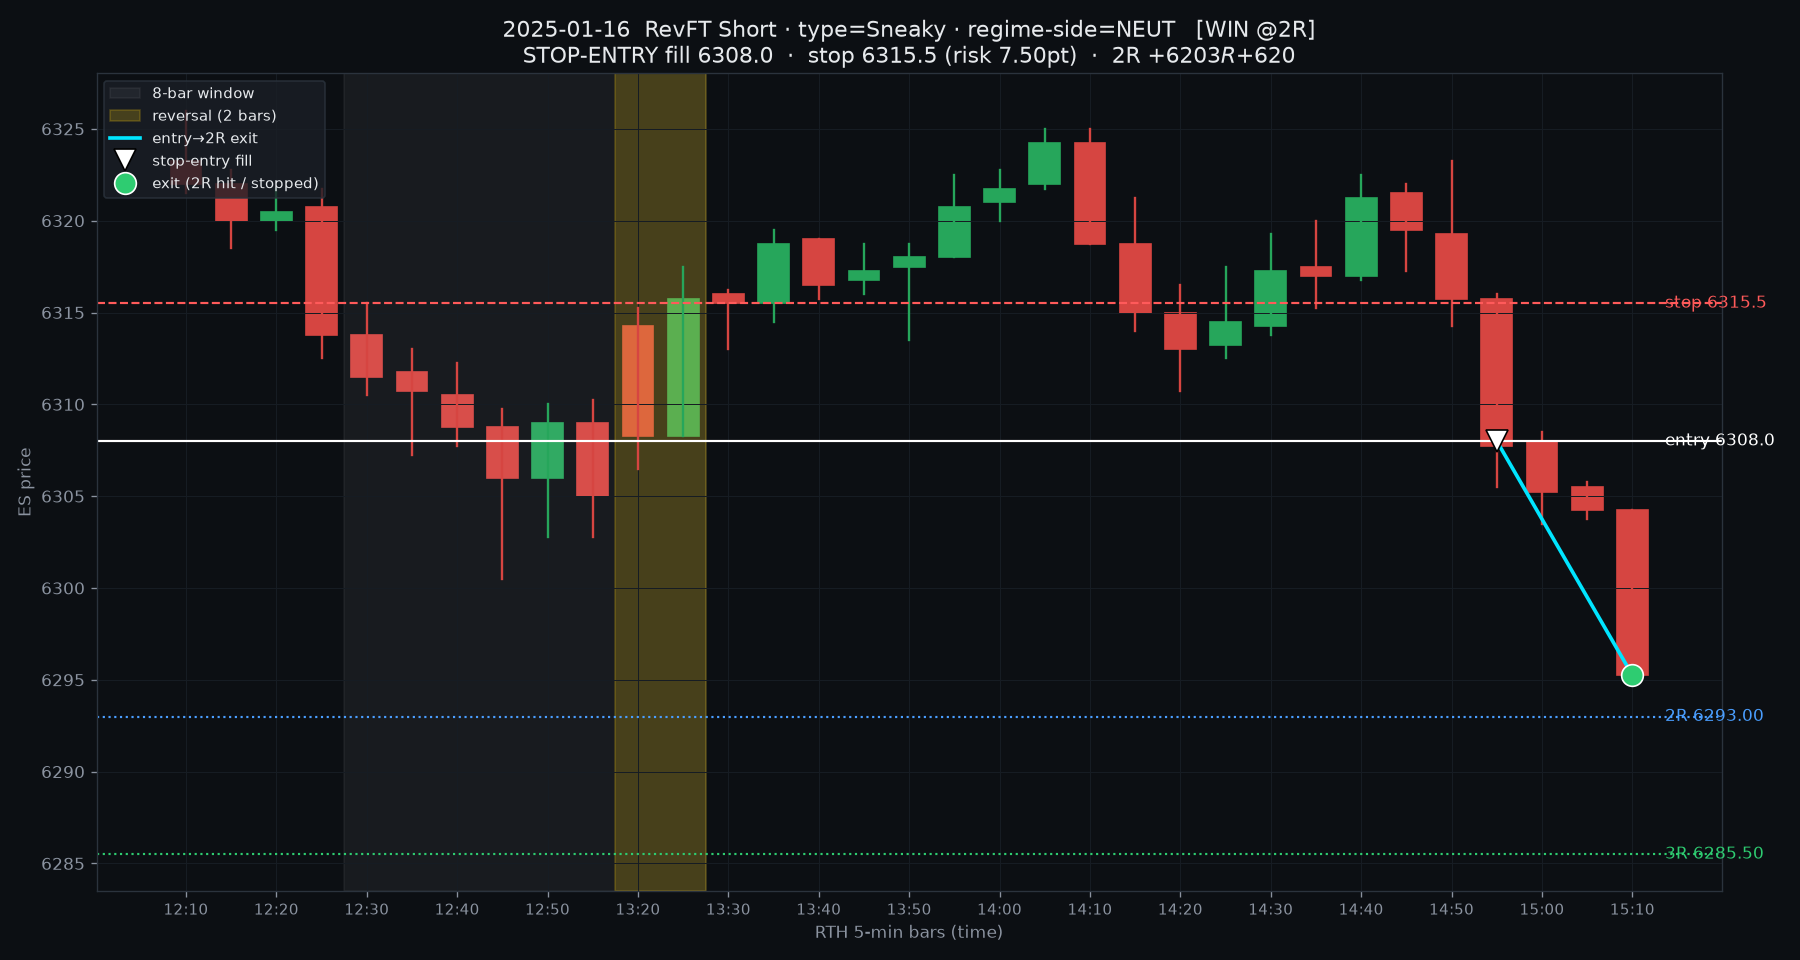
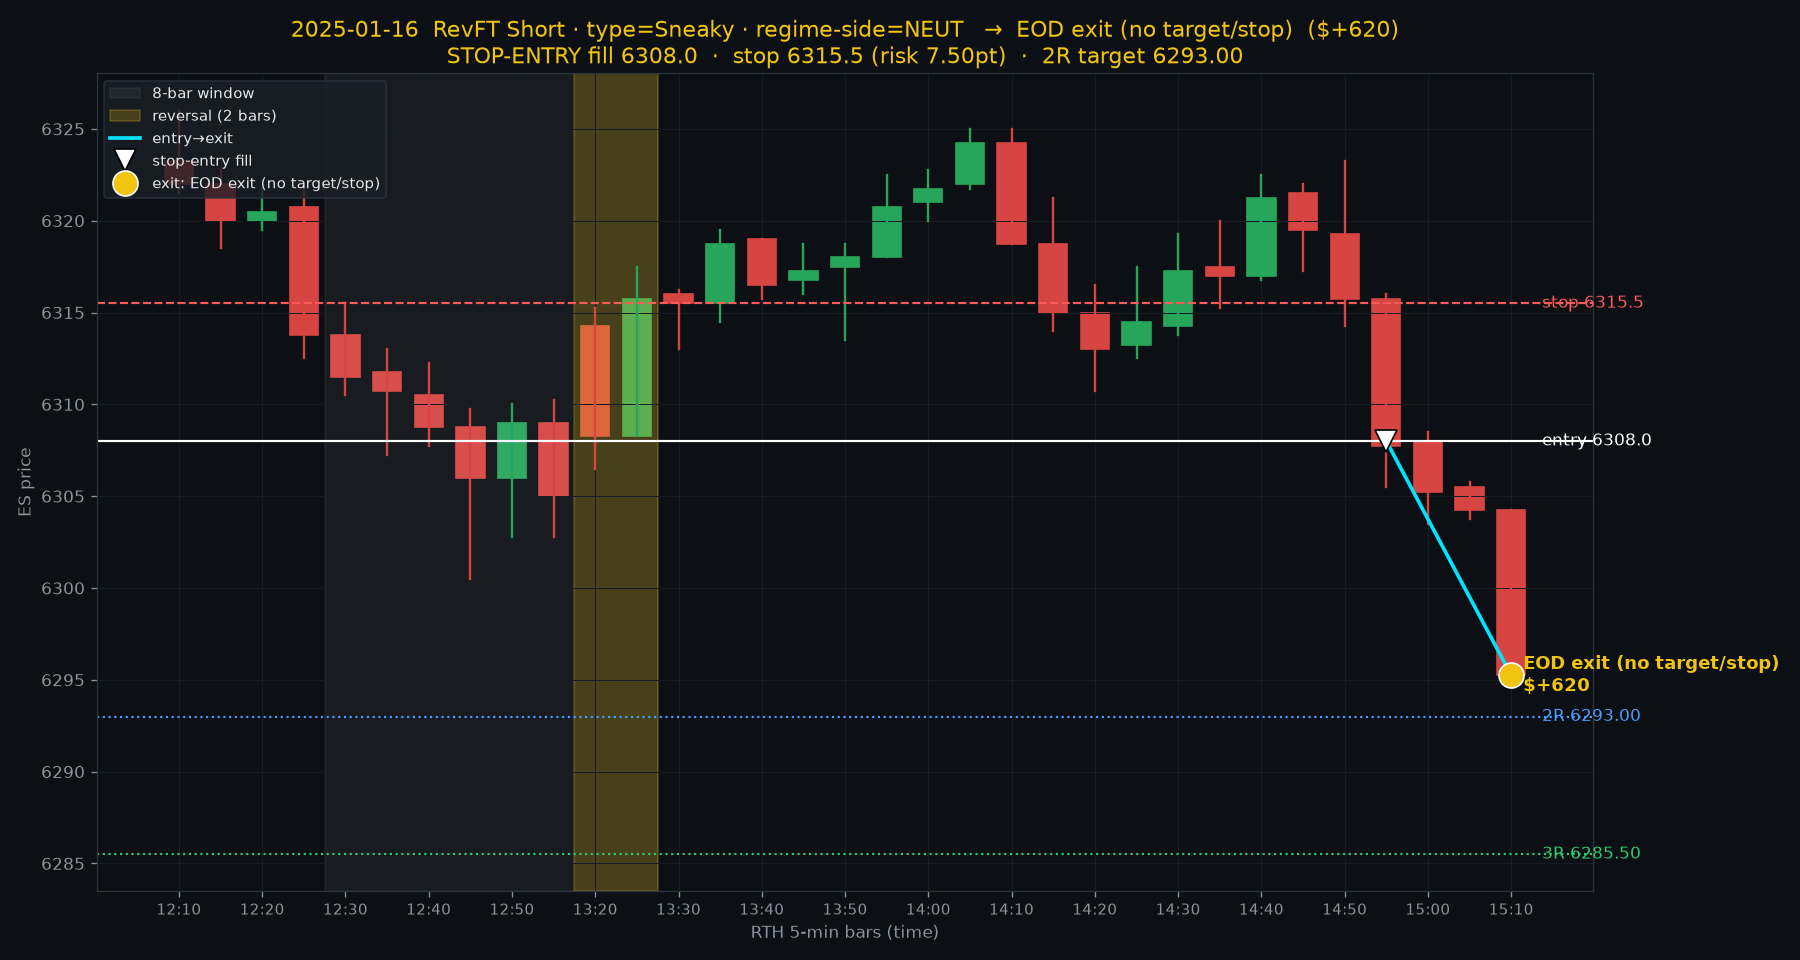
S85: RevFT charts show real outcome (TARGET/STOPPED/EOD) + handoff close-out
Full-size charts now label the exit by what actually happened — TARGET (2R hit), STOPPED, or EOD exit
(no target/stop) — colored dot + annotation + title, instead of net-positive=green. Handoff updated
with the closed RevFT investigation (dead with correct stop-entry) + short-gate/entry-count/ABR8 results.

diff --git a/scripts/regime_revft_chart_full.py b/scripts/regime_revft_chart_full.py
@@ -50,18 +50,23 @@ def main():
         for yv,c,ls,lab in [(r.entry,"#ffffff","-","entry "+str(r.entry)),(r.stop,"#ff5a5a","--","stop "+str(r.stop)),
                             (tgt2,"#4a9eff",":",f"2R {tgt2:.2f}"),(tgt3,"#2ecc71",":",f"3R {tgt3:.2f}")]:
             ax.axhline(yv,color=c,lw=1.3,ls=ls); ax.text(len(seg)-.5,yv,"  "+lab,color=c,fontsize=10,va="center")
-        ax.plot([gi(eb),gi(x2)],[r.entry,r.expx_2R],color="#00e5ff",lw=2.2,zorder=5,label="entry→2R exit")
+        # actual outcome of the 2R trade: did it hit TARGET, get STOPPED, or exit at EOD?
+        tol=0.13
+        if abs(r.expx_2R-tgt2)<tol: oc="TARGET (2R hit)"; ocol="#2ecc71"
+        elif abs(r.expx_2R-r.stop)<tol: oc="STOPPED"; ocol="#ff5a5a"
+        else: oc="EOD exit (no target/stop)"; ocol="#f1c40f"
+        ax.plot([gi(eb),gi(x2)],[r.entry,r.expx_2R],color="#00e5ff",lw=2.2,zorder=5,label="entry→exit")
         ax.plot(gi(eb),r.entry,"v" if short else "^",color="#fff",ms=13,zorder=6,mec="#000",label="stop-entry fill")
-        win=r.net_2R>0
-        ax.plot(gi(x2),r.expx_2R,"o",color=("#2ecc71" if win else "#ff5a5a"),ms=13,zorder=6,mec="#fff",label="exit (2R hit / stopped)")
+        ax.plot(gi(x2),r.expx_2R,"o",color=ocol,ms=15,zorder=6,mec="#fff",label="exit: "+oc)
+        ax.annotate(f"  {oc}\n  ${r.net_2R:+.0f}",(gi(x2),r.expx_2R),color=ocol,fontsize=11,va="center",fontweight="bold",zorder=7)
         # x ticks = bar times
         tk=list(range(0,len(seg),max(1,len(seg)//12)))
         ax.set_xticks(tk); ax.set_xticklabels([pd.Timestamp(seg.DateTime[j]).strftime("%H:%M") for j in tk],color="#8b93a0",fontsize=9)
         ax.tick_params(colors="#8b93a0"); [sp.set_color("#2b333d") for sp in ax.spines.values()]
         ax.grid(True,color="#161c23",lw=.6)
-        ax.set_title(f"{r.Date}  RevFT {r.dir} · type={r.type} · regime-side={r.side}   [{'WIN' if win else 'LOSS'} @2R]\n"
-                     f"STOP-ENTRY fill {r.entry}  ·  stop {r.stop} (risk {risk:.2f}pt)  ·  2R ${r.net_2R:+.0f}   3R ${r.net_3R:+.0f}",
-                     color="#e6e9ec",fontsize=13)
+        ax.set_title(f"{r.Date}  RevFT {r.dir} · type={r.type} · regime-side={r.side}   →  {oc}  (${r.net_2R:+.0f})\n"
+                     f"STOP-ENTRY fill {r.entry}  ·  stop {r.stop} (risk {risk:.2f}pt)  ·  2R target {tgt2:.2f}",
+                     color=ocol,fontsize=13)
         ax.set_ylabel("ES price",color="#8b93a0"); ax.set_xlabel("RTH 5-min bars (time)",color="#8b93a0")
         ax.legend(loc="upper left",facecolor="#1a1f26",edgecolor="#2b333d",labelcolor="#e6e9ec",fontsize=9)
         plt.tight_layout()

diff --git a/docs/living/handoff.md b/docs/living/handoff.md
@@ -32,6 +32,14 @@ always-count experiment = DON'T switch [+$69k of losers]. On `regime/indep`, pus
   machine at fill, full 2021+ real-tick. **VERDICT: don't switch.** WT book baseline 573tr +$86,848 vs always
   825tr +$18,038 (the +252 extra signals are net **−$68,810**); fade 105tr +$6,875 vs 188tr +$6,210 (extra fades
   ~breakeven). Live engine untouched. CSV: `data/regime/always_count_compare_20210101.csv`.
+- **RevFT investigation (2026-07-27, closed):** tried filtering RevFT (MyReversals) to the n-bar-extreme
+  (reversal bar + prior bar make the 8-bar high/low). First pass looked great (PF ~1.9) but was an ENTRY
+  ARTIFACT. With the CORRECT stop-entry (pull back >=1t beyond SignalPrice, then tick >=1t back through ->
+  fill; else no fill) on Massive real ticks: base PF ~0.80 (losing). Salvage sweep (bars-to-fill<=K, TOD
+  cutoff, risk>=2pt, drop-BO, side) = 0 robust positive cells; best = breakeven. RevFT-extreme = DEAD.
+  Scripts: regime_revft_extreme_detail.py / _chart_full.py (full-size labeled charts, exit=TARGET/STOPPED/
+  EOD) / _salvage.py. See memory [[s85-2e-book-metrics]]. Also: short-gate (2ES belongs ABOVE SMA20, not
+  below), entry-count (1E/1ES don't add, 2E best), ABR8 stop/target + reversion-scalp (no edge).
 - **STILL OPEN:** real tick-level zoom inside the lens (needs tick data in the day JSONs); Al Brooks side-by-side
   from the Codex; optional per-trade audit of the always-count (Samir unsure it's right).
 
